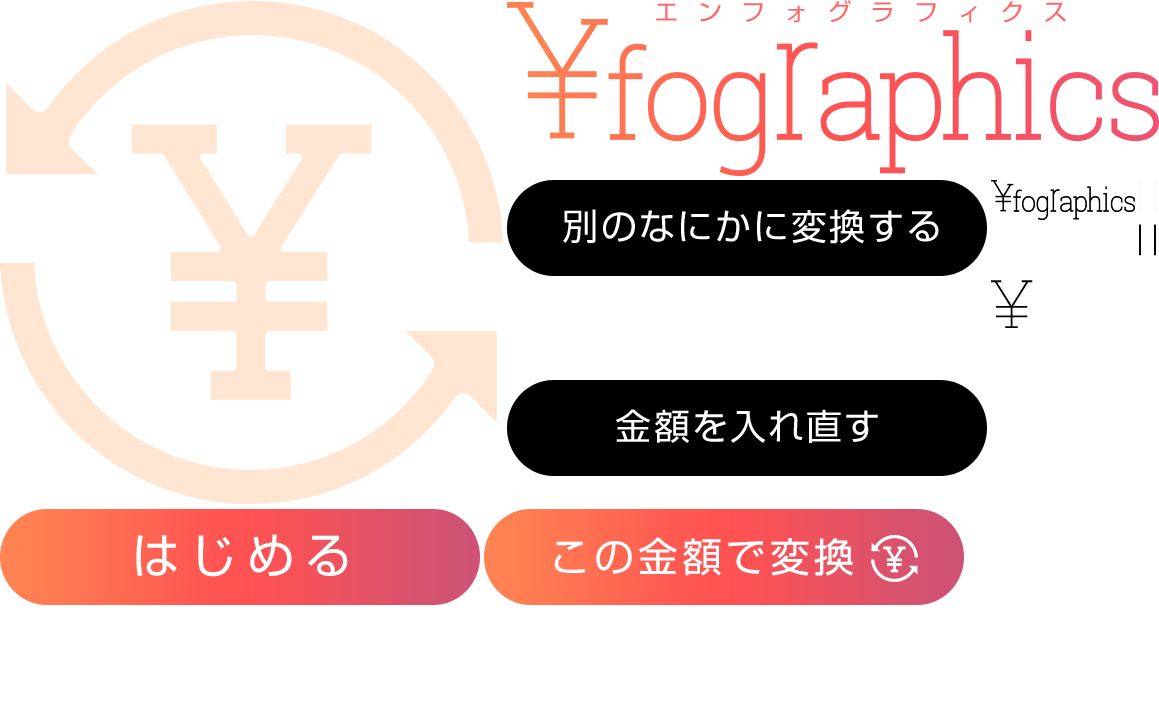
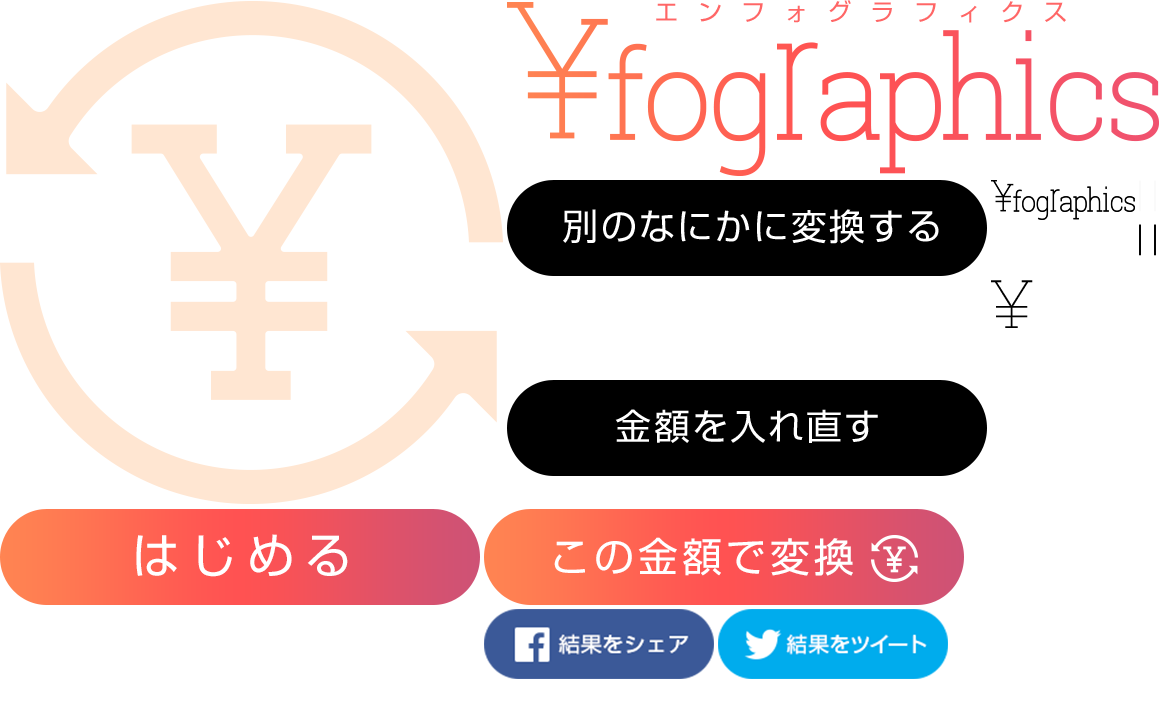
スマホのシェアも実装

Changed region(s): [[0.4038, 0.8426, 0.8387, 0.9674]]

diff --git a/_build/src/scss/pc/_index-sp.scss b/_build/src/scss/pc/_index-sp.scss
@@ -88,6 +88,17 @@ $index-estimate-total-width: 1159px;
 $index-estimate-total-height: 705px;
 $index-estimate-image: '../img/index-sp.png';
 $index-estimate: (484px, 509px, -484px, -509px, 480px, 96px, 1159px, 705px, '../img/index-sp.png', 'index_estimate', );
+$index-facebook-name: 'index_facebook';
+$index-facebook-x: 484px;
+$index-facebook-y: 609px;
+$index-facebook-offset-x: -484px;
+$index-facebook-offset-y: -609px;
+$index-facebook-width: 230px;
+$index-facebook-height: 70px;
+$index-facebook-total-width: 1159px;
+$index-facebook-total-height: 705px;
+$index-facebook-image: '../img/index-sp.png';
+$index-facebook: (484px, 609px, -484px, -609px, 230px, 70px, 1159px, 705px, '../img/index-sp.png', 'index_facebook', );
 $index-logo-big-name: 'index_logo-big';
 $index-logo-big-x: 0px;
 $index-logo-big-y: 0px;
@@ -143,6 +154,17 @@ $index-ttl-total-width: 1159px;
 $index-ttl-total-height: 705px;
 $index-ttl-image: '../img/index-sp.png';
 $index-ttl: (507px, 0px, -507px, 0px, 652px, 176px, 1159px, 705px, '../img/index-sp.png', 'index_ttl', );
+$index-tweet-name: 'index_tweet';
+$index-tweet-x: 718px;
+$index-tweet-y: 609px;
+$index-tweet-offset-x: -718px;
+$index-tweet-offset-y: -609px;
+$index-tweet-width: 230px;
+$index-tweet-height: 70px;
+$index-tweet-total-width: 1159px;
+$index-tweet-total-height: 705px;
+$index-tweet-image: '../img/index-sp.png';
+$index-tweet: (718px, 609px, -718px, -609px, 230px, 70px, 1159px, 705px, '../img/index-sp.png', 'index_tweet', );
 $index-yen-black-name: 'index_yen-black';
 $index-yen-black-x: 991px;
 $index-yen-black-y: 280px;
@@ -168,7 +190,7 @@ $index-yen-white: (1037px, 280px, -1037px, -280px, 42px, 48px, 1159px, 705px, '.
 $index-sp-width: 1159px;
 $index-sp-height: 705px;
 $index-sp-image: '../img/index-sp.png';
-$index-sp-sprites: ($index-again-black, $index-again-white, $index-another-black, $index-another-white, $index-equal-black, $index-equal-white, $index-estimate, $index-logo-big, $index-logo-black, $index-logo-white, $index-start, $index-ttl, $index-yen-black, $index-yen-white, );
+$index-sp-sprites: ($index-again-black, $index-again-white, $index-another-black, $index-another-white, $index-equal-black, $index-equal-white, $index-estimate, $index-facebook, $index-logo-big, $index-logo-black, $index-logo-white, $index-start, $index-ttl, $index-tweet, $index-yen-black, $index-yen-white, );
 $index-sp: (1159px, 705px, '../img/index-sp.png', $index-sp-sprites, );
 
 /*

diff --git a/_build/dist/css/style.css b/_build/dist/css/style.css
@@ -967,6 +967,21 @@ body.is_sp .footer[data-color="black"] .footer_another {
   width: 480px;
   height: 96px;
 }
+body.is_sp .footer .footer_social {
+  width: 480px;
+}
+body.is_sp .footer .footer_social_inner-facebook {
+  background-image: url(../img/index-sp.png);
+  background-position: -484px -609px;
+  width: 230px;
+  height: 70px;
+}
+body.is_sp .footer .footer_social_inner-tweet {
+  background-image: url(../img/index-sp.png);
+  background-position: -718px -609px;
+  width: 230px;
+  height: 70px;
+}
 body.is_sp .footer .footer_inner:hover {
   opacity: 1;
 }

diff --git a/css/style.css b/css/style.css
@@ -967,6 +967,21 @@ body.is_sp .footer[data-color="black"] .footer_another {
   width: 480px;
   height: 96px;
 }
+body.is_sp .footer .footer_social {
+  width: 480px;
+}
+body.is_sp .footer .footer_social_inner-facebook {
+  background-image: url(../img/index-sp.png);
+  background-position: -484px -609px;
+  width: 230px;
+  height: 70px;
+}
+body.is_sp .footer .footer_social_inner-tweet {
+  background-image: url(../img/index-sp.png);
+  background-position: -718px -609px;
+  width: 230px;
+  height: 70px;
+}
 body.is_sp .footer .footer_inner:hover {
   opacity: 1;
 }

diff --git a/_build/src/scss/pc/pages/_index.scss b/_build/src/scss/pc/pages/_index.scss
@@ -610,6 +610,18 @@ $item_row_length: 10;
             }
         }
 
+        .footer_social{
+            width: 480px;
+        }
+
+        .footer_social_inner-facebook{
+            @include sprite($index_facebook);
+        }
+
+        .footer_social_inner-tweet{
+            @include sprite($index_tweet);
+        }
+
         .footer_inner{
             &:hover{
                 opacity: 1;
